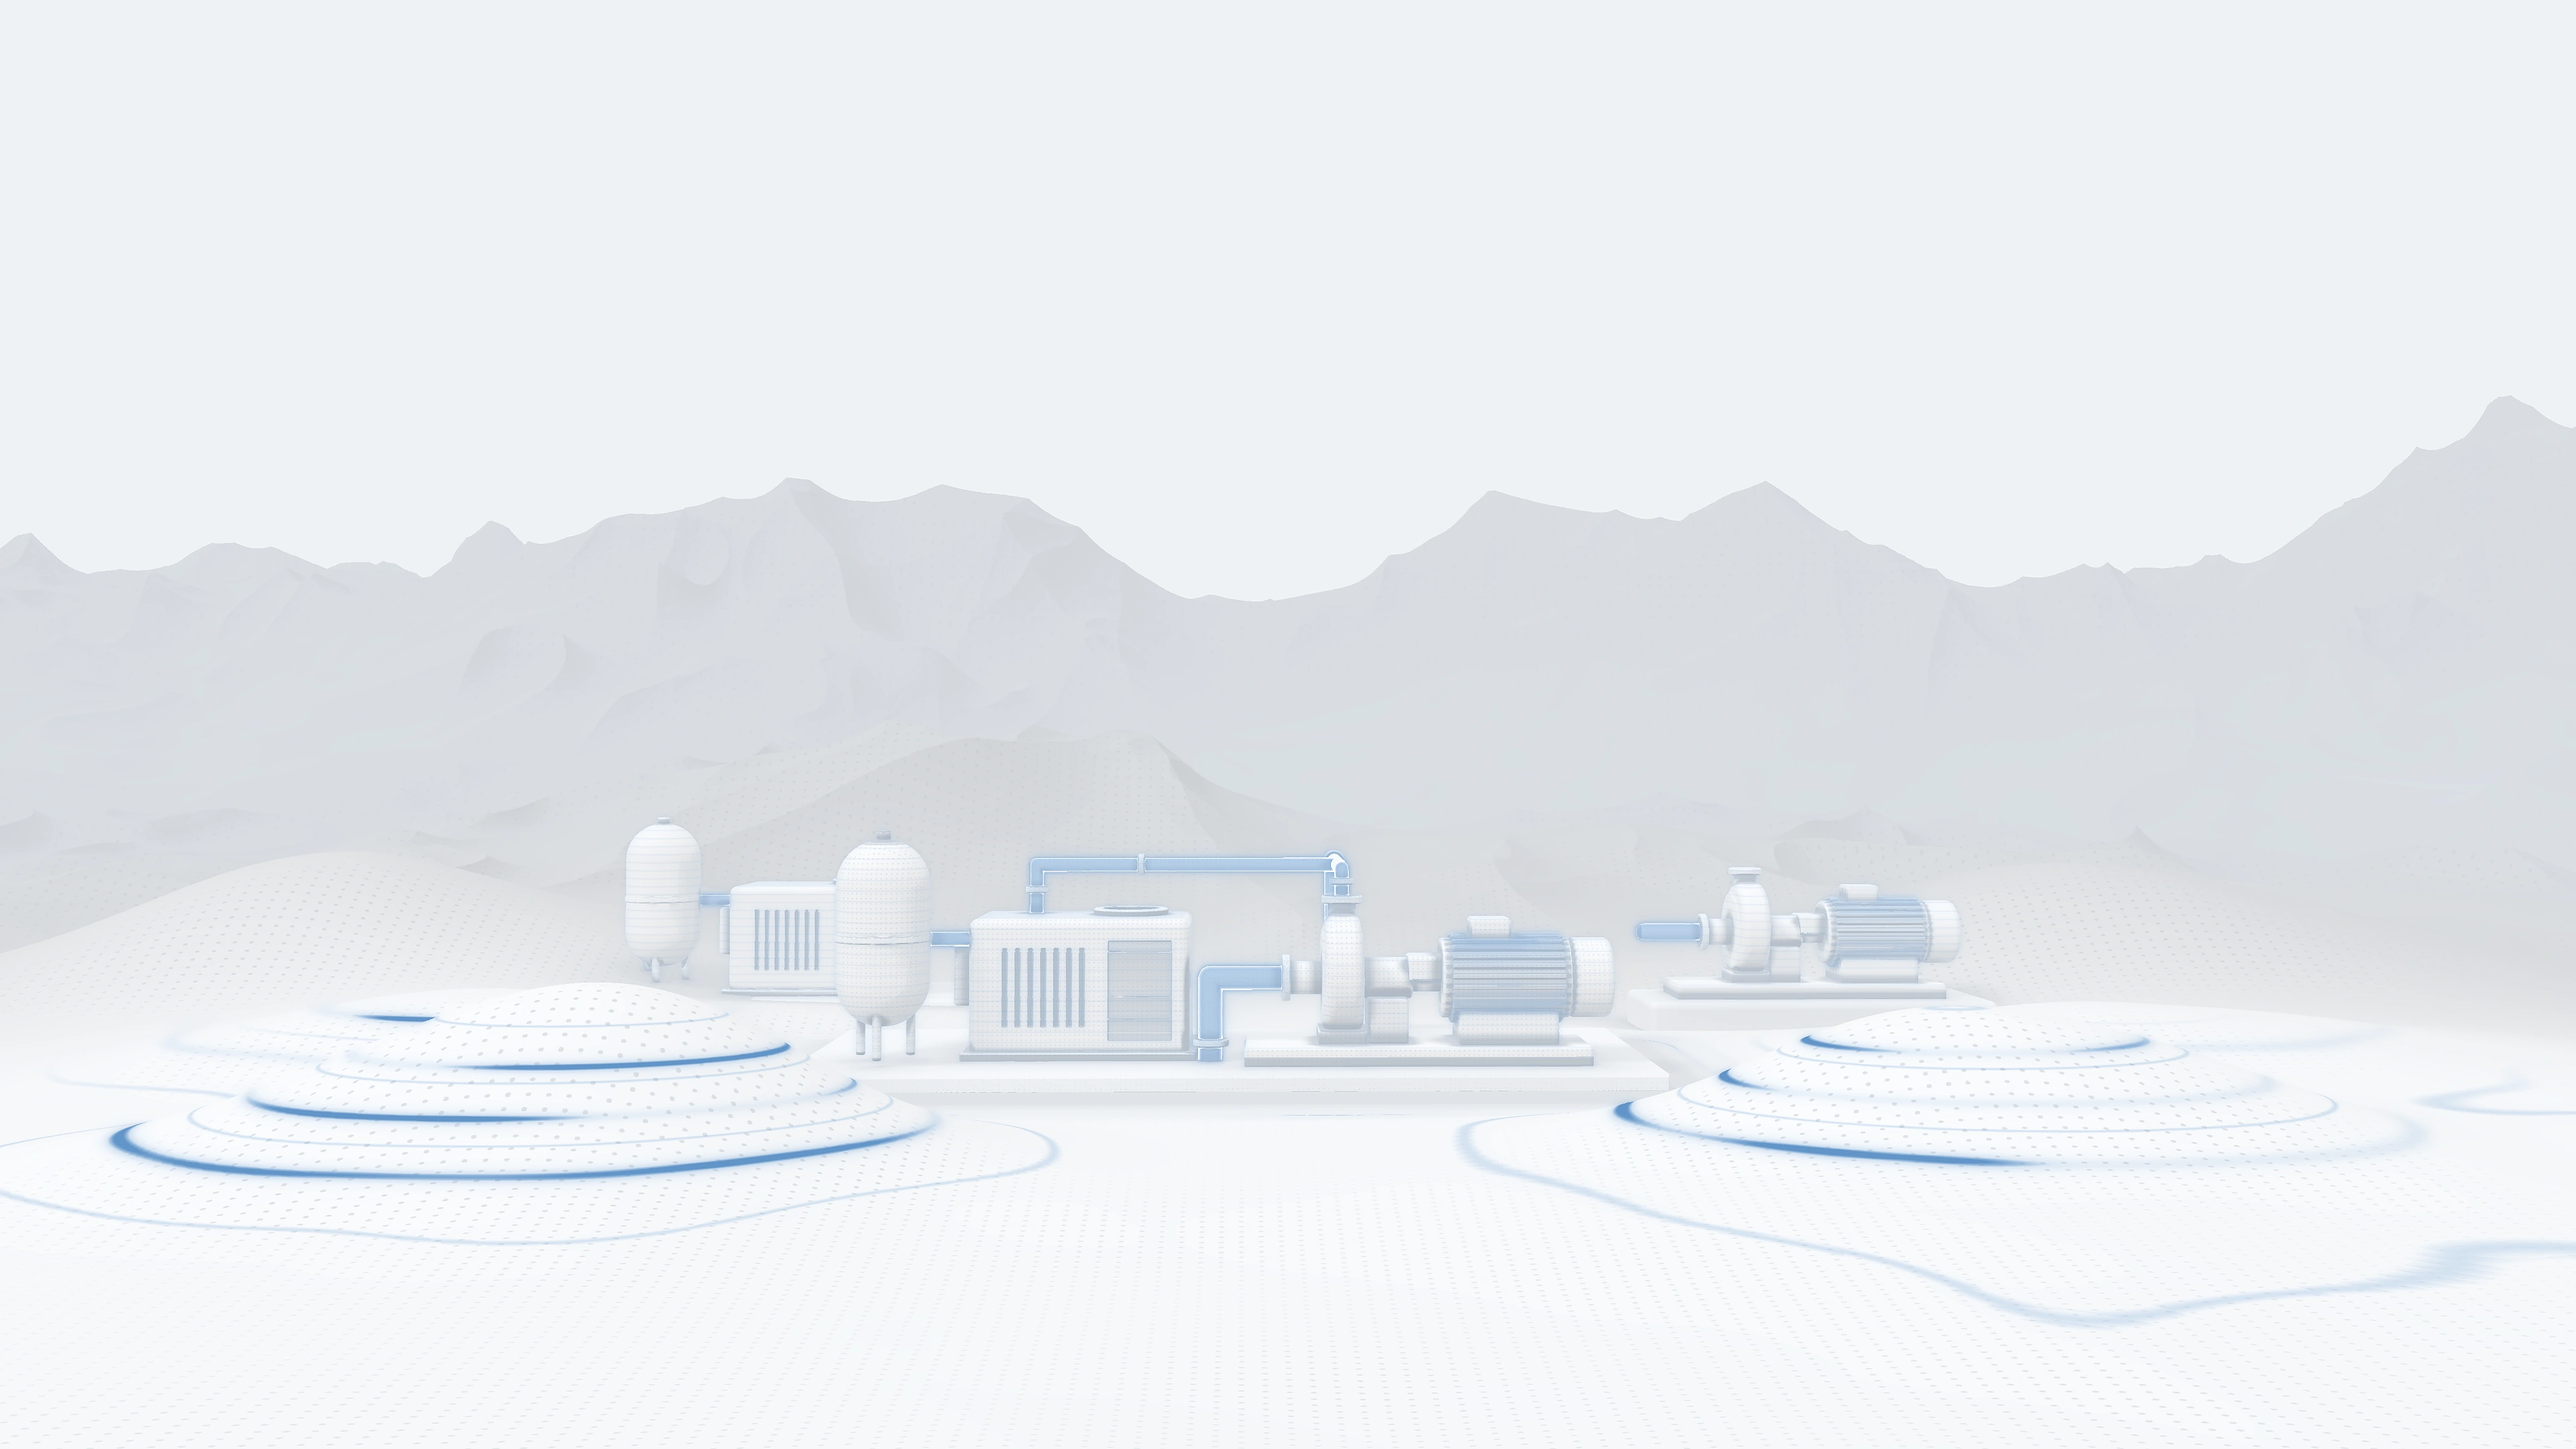
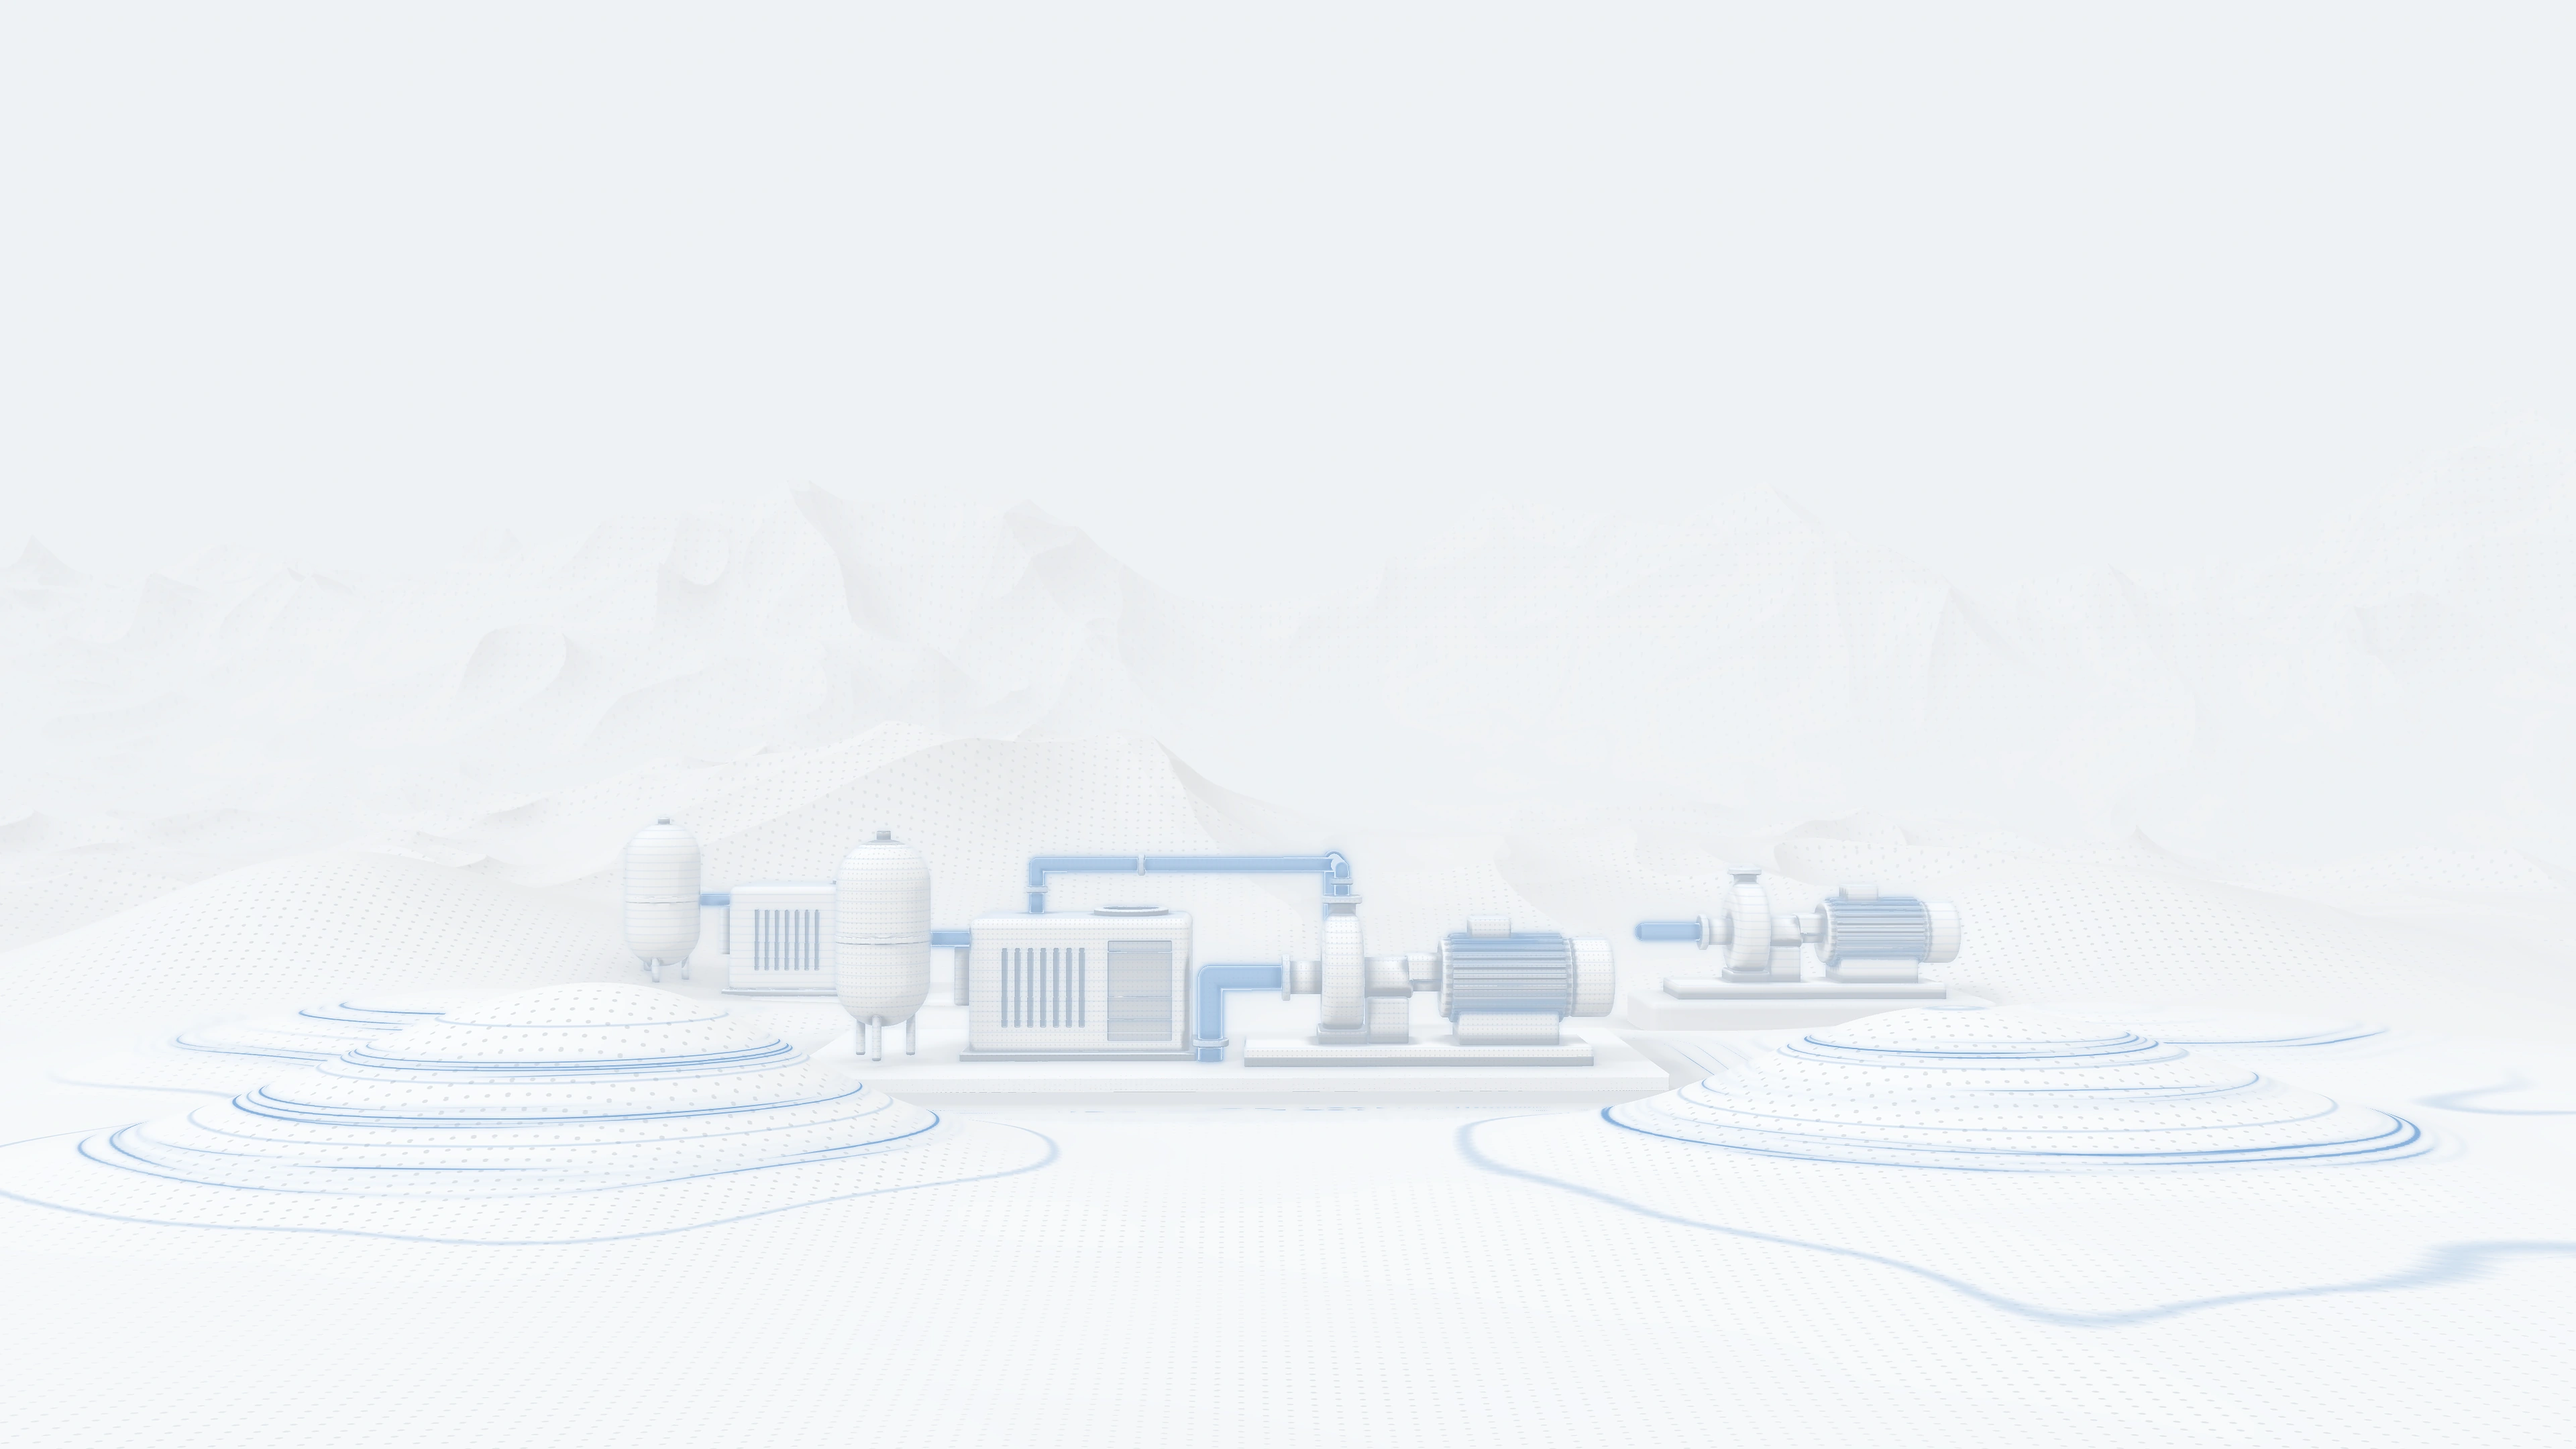
chore: 히어로 그래픽을 새 판으로 바꾼다
원본(운영 리포 public/hero/)에서 다시 뽑은 에셋 · 스크립트 · 스타일을 가져온다.

마커 카드가 클릭에서 호버로 바뀌었다
- 핀은 더 이상 버튼으로 눌리지 않는다(cursor: default · pointer-events: none).
  카드는 마우스를 올리면 열리고, 그 감지는 js 가 document 에서 포인터를 받아
  좌표로 처리한다. 닫기 버튼 · aria-expanded · 바깥 클릭 닫기가 함께 빠졌다.
- 카드에서 라벨 줄이 빠지고 태그 + 제목 + 설명만 남았다. 폭 340 -> 372px.
- UI 층을 translateZ(-159px) 에서 translateZ(1px) 로 올려 어떤 레이어도 카드를
  덮지 않게 했다.

그에 맞춰 global.css 의 `.vh-pin · .vh-card { pointer-events: auto }` 를 걷는다.
핀을 되살릴 이유가 없어졌고, 새 css 가 !important 로 막고 있어 무효한 규칙이다.

far.webp 는 참조가 없어 넣지 않는다(js 는 far-cut.webp 만 쓴다). 히어로 에셋
합계 1.5MB · 전송 1467KB 로 늘었다 — 3840x2160 판이고 lazy 를 걸 수 없는 자리라
표시 크기에 견줘 과한지 따로 봐야 한다.

diff --git a/public/hero/vetec-hero.js b/public/hero/vetec-hero.js
@@ -61,14 +61,11 @@
           '--stem:' + m.stem + 'px;--d1:' + (0.9 + i * 0.22) + 's;--d2:' + (1.3 + i * 0.22) + 's;--d3:' + (2 + i * 0.4) + 's">' +
           '<span class="vh-stem"></span><span class="vh-dot"></span>' +
           '<div class="vh-head">' +
-            '<button type="button" class="vh-pin" aria-expanded="false" aria-controls="' + cardId + '" aria-label="' + esc(m.label) + ' 정보 열기">' + ICON_PLUS + '</button>' +
+            '<button type="button" class="vh-pin" aria-describedby="' + cardId + '" aria-label="' + esc(m.title) + '">' + ICON_PLUS + '</button>' +
             '<div class="vh-card" id="' + cardId + '" role="region" aria-label="' + esc(m.title) + '" hidden>' +
-              '<div class="vh-card__top"><span class="vh-card__tag">' + esc(m.tag) + '</span>' +
-                '<button type="button" class="vh-card__close" aria-label="닫기">' + ICON_X + '</button></div>' +
-              '<div><div class="vh-card__label">' + esc(m.label) + '</div>' +
-                '<h3 class="vh-card__title">' + esc(m.title) + '</h3>' +
+              '<div class="vh-card__top"><span class="vh-card__tag">' + esc(m.tag) + '</span></div>' +
+              '<div><h3 class="vh-card__title">' + esc(m.title) + '</h3>' +
                 '<div class="vh-card__en">' + esc(m.en) + '</div></div>' +
-              '<p class="vh-card__desc">' + esc(m.desc) + '</p>' +
             '</div>' +
           '</div>' +
         '</div>';
@@ -158,9 +155,7 @@
       card.hidden = !on;
       if (on) this.fitCard(m); else m.classList.remove('flip-down', 'flip-x');
       var pinned = this.pinned === m.getAttribute('data-id');
-      pin.setAttribute('aria-expanded', pinned ? 'true' : 'false');
-      pin.setAttribute('aria-label', pin.getAttribute('aria-label').replace(/ 정보 (열기|닫기)$/, pinned ? ' 정보 닫기' : ' 정보 열기'));
-    }
+                }
   };
 
   // keep an open card inside the hero: flip vertically / horizontally if it would overflow
@@ -261,15 +256,28 @@
       }
     }
 
-    // click / tap pins the card; click again, ×, outside or Esc closes it
-    root.addEventListener('click', function (e) {
-      if (e.target.closest('.vh-card__close')) { self.close(true); return; }
-      var pin = e.target.closest('.vh-pin');
-      if (pin) { self.toggle(pin.closest('.vh-marker').getAttribute('data-id')); return; }
-      if (!e.target.closest('.vh-card')) self.close(false);
+    // The card is shown on hover only. A mouse click does nothing.
+    // Keyboard: focusing a pin shows its card. Touch (no hover): a tap shows it, a tap elsewhere hides it.
+    root.addEventListener('focusin', function (e) {
+      var pin = e.target.closest && e.target.closest('.vh-pin');
+      if (pin) { self.preview = pin.closest('.vh-marker').getAttribute('data-id'); self.sync(); }
+    });
+    root.addEventListener('focusout', function (e) {
+      if (e.target.closest && e.target.closest('.vh-pin')) { self.preview = null; self.sync(); }
+    });
+    var lastType = 'mouse';
+    document.addEventListener('pointerdown', function (e) { lastType = e.pointerType || 'mouse'; }, true);
+    document.addEventListener('click', function (e) {
+      if (lastType === 'mouse') return;
+      var r = root.getBoundingClientRect(), x = e.clientX, y = e.clientY;
+      if (x < r.left || x > r.right || y < r.top || y > r.bottom) { self.close(false); return; }
+      var hit = null, ms = root.querySelectorAll('.vh-pin');
+      for (var i = 0; i < ms.length; i++) { var b = ms[i].getBoundingClientRect(); if (x >= b.left && x <= b.right && y >= b.top && y <= b.bottom) hit = ms[i]; }
+      if (hit) { var id = hit.closest('.vh-marker').getAttribute('data-id'); self.preview = (self.preview === id ? null : id); self.pinned = null; self.sync(); }
+      else self.close(false);
     });
     root.addEventListener('keydown', function (e) {
-      if (e.key === 'Escape') self.close(true);
+      if (e.key === 'Escape') self.close(false);
     });
   };
 

diff --git a/src/styles/vetec-hero.css b/src/styles/vetec-hero.css
@@ -66,7 +66,7 @@ section.vh[data-vetec-hero] { background: var(--ink-200-bg) !important; }
 .vh-slice--mid  { transform: translateZ(-460px) scale(1.30667); }
 .vh-slice--near { transform: translateZ(-160px) scale(1.10667); }
 .vh-slice--fg   { transform: translateZ(0); }
-.vh-slice--ui   { transform: translateZ(-159px) scale(1.106); }
+.vh-slice--ui   { transform: translateZ(1px) scale(0.99933); } /* in front of every layer, so cards are never covered */
 
 /* Every image layer bleeds 5% past the stage so tilting never shows an edge. */
 .vh-layer {
@@ -175,7 +175,7 @@ section.vh[data-vetec-hero] { background: var(--ink-200-bg) !important; }
   border: 0;
   background: transparent;
   color: var(--vh-accent);
-  cursor: pointer;
+  cursor: default;
   pointer-events: auto;
   display: flex;
   align-items: flex-end;
@@ -224,15 +224,16 @@ section.vh[data-vetec-hero] { background: var(--ink-200-bg) !important; }
 .vh-marker.is-open:not(.is-pinned) .vh-pin::before { transform: scale(1.1); }
 
 .vh-card {
+  pointer-events: none !important;
   position: absolute;
   top: -42px;
   left: 30px;
-  width: 340px;
+  width: 372px;
   box-sizing: border-box;
-  padding: 20px 20px 18px 22px;
+  padding: 20px 24px 22px;
   display: flex;
   flex-direction: column;
-  gap: 10px;
+  gap: 0;
   background: #FFFFFF;
   border: 1px solid var(--ink-200);
   border-radius: 16px;
@@ -245,6 +246,7 @@ section.vh[data-vetec-hero] { background: var(--ink-200-bg) !important; }
   animation: vhCard .35s cubic-bezier(.2,.7,.2,1);
 }
 .vh-card[hidden] { display: none; }
+.vh-marker.is-open .vh-card { background: #FFFFFF; opacity: 1; }
 .vh-marker--left .vh-card { left: auto; right: 30px; }
 .vh-marker--up .vh-card { left: -170px; right: auto; top: auto; bottom: 40px; }
 /* auto-flip when a card would leave the hero (set by JS) */
@@ -253,21 +255,22 @@ section.vh[data-vetec-hero] { background: var(--ink-200-bg) !important; }
 .vh-marker.flip-x.vh-marker--right .vh-card { left: auto; right: 30px; }
 @keyframes vhCard { from { opacity: 0; transform: translateY(6px); } to { opacity: 1; transform: none; } }
 
-.vh-card__top { display: flex; align-items: center; justify-content: space-between; gap: 12px; }
+.vh-card__top { display: flex; align-items: center; height: 28px; margin-bottom: 14px; }
 .vh-card__tag {
   display: inline-flex; align-items: center; height: 24px; padding: 0 10px;
   border-radius: 999px; background: var(--brand-50); border: 1px solid var(--brand-100);
   color: var(--brand-700); font-size: 12px; font-weight: 700; letter-spacing: .04em;
 }
 .vh-card__close {
+  position: absolute; top: 18px; right: 16px;
   width: 32px; height: 32px; border: 0; border-radius: 8px; background: transparent; cursor: pointer;
   display: flex; align-items: center; justify-content: center; color: var(--ink-600);
 }
 .vh-card__close:hover { background: var(--ink-100); color: var(--ink-900); }
 .vh-card__close:focus-visible { outline: 2px solid var(--ink-900); outline-offset: 2px; }
 .vh-card__label { font-size: 13px; color: var(--ink-600); font-weight: 500; }
-.vh-card__title { margin: 2px 0 0; font-size: 20px; line-height: 1.35; color: var(--ink-900); font-weight: 700; }
-.vh-card__en { font-size: 12px; color: var(--ink-500); }
+.vh-card__title { margin: 0; font-size: 19px; line-height: 1.42; letter-spacing: -0.01em; color: var(--ink-900); font-weight: 700; text-wrap: balance; }
+.vh-card__en { margin-top: 8px; font-size: 13px; line-height: 1.5; color: var(--ink-600); text-wrap: pretty; }
 .vh-card__desc { margin: 0; font-size: 14px; line-height: 1.6; color: var(--ink-700); }
 .vh-card__link {
   display: inline-flex; align-items: center; gap: 6px; min-height: 44px;

diff --git a/src/styles/global.css b/src/styles/global.css
@@ -292,14 +292,13 @@
       border-radius: var(--radius);
     }
     /* 제목(z 2)·소제목(z 2)이 그래픽 위에 얹히므로 .vh 는 그 아래 층이다.
-       pointer-events 를 끄는 건 칸 전체가 카피의 클릭을 가로채지 않게 하기 위함이고,
-       눌려야 하는 마커와 카드만 다시 켠다. */
+       pointer-events 를 끄는 건 칸 전체가 카피의 클릭을 가로채지 않게 하기 위함이다.
+       마커를 되살릴 필요는 없다 — 카드는 클릭이 아니라 호버로 열리고, 그 감지는
+       vetec-hero.js 가 document 에서 포인터를 받아 처리한다. */
     .hero-motion-placeholder > .vh {
       position: relative; z-index: 1;
       pointer-events: none;
     }
-    .hero-motion-placeholder > .vh .vh-pin,
-    .hero-motion-placeholder > .vh .vh-card { pointer-events: auto; }
     /* .vh 는 제 기본값이 min(100vh, 56.25vw) 라 칸보다 커진다. 칸을 그대로 채우게
        높이를 넘기고 min-height(420px)도 푼다 — 좁은 화면에서 칸 밖으로 비어져 나온다.
        radius 를 한 번 더 주는 건 .vh 가 overflow:hidden 으로 제 자식을 자르기 때문이다. */
